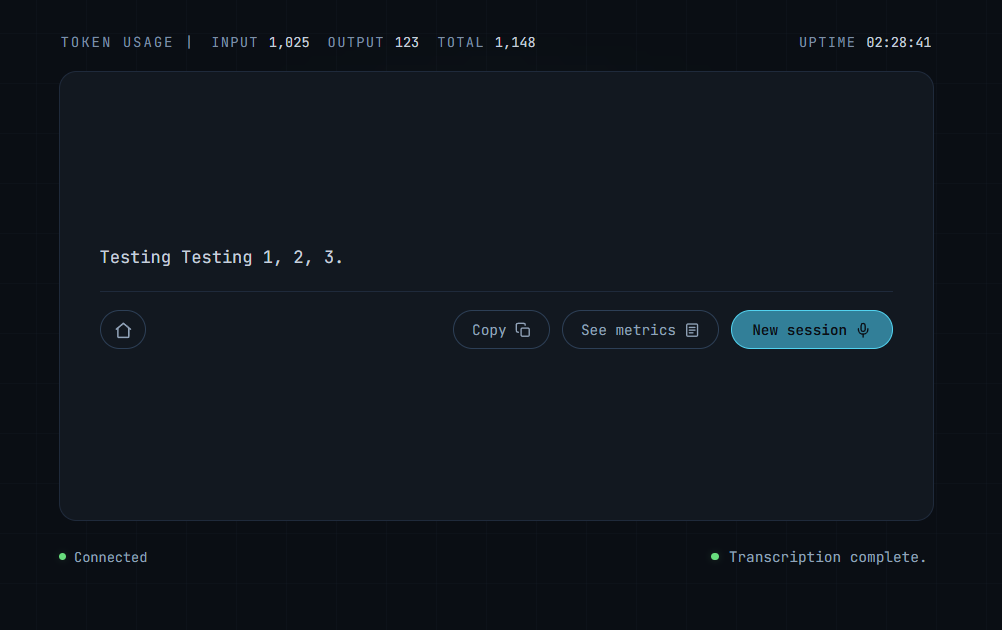
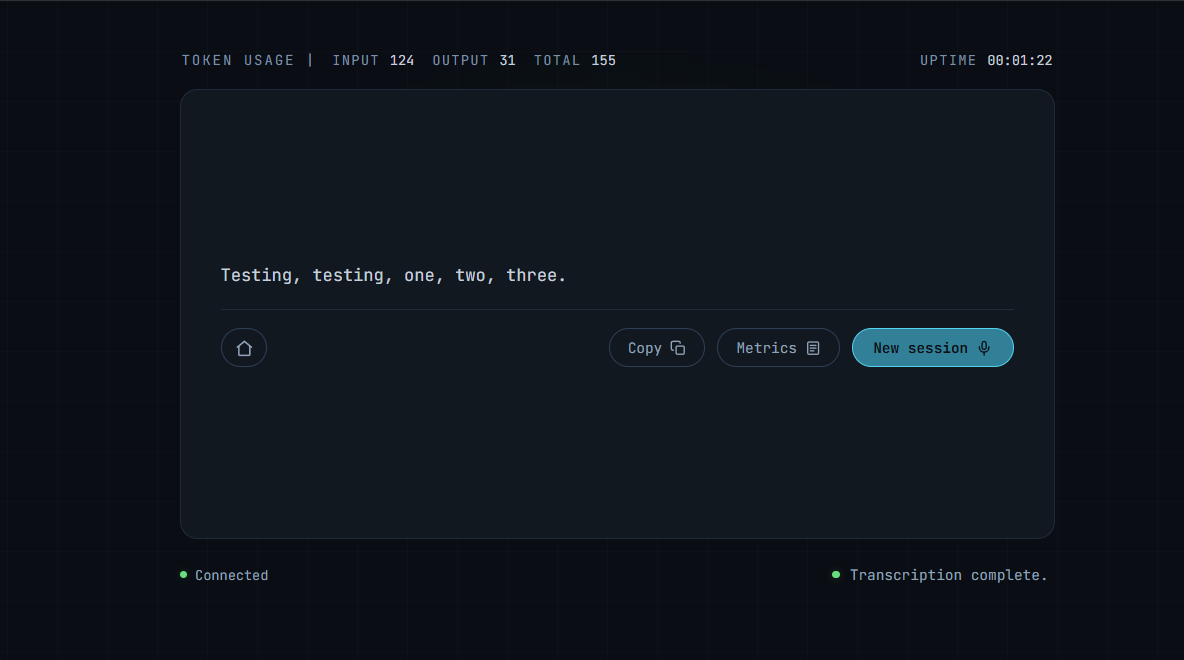
Final clean up for submission
Update images to latest, remove dead code and dead imports, validate filename provided, update docs, remove local testing ports

diff --git a/src/main/java/com/comp3011/assignment1/controller/TranscriptionController.java b/src/main/java/com/comp3011/assignment1/controller/TranscriptionController.java
@@ -38,7 +38,7 @@ public class TranscriptionController {
      * token usage. consumes= makes the media type part of the mapping, so a non-multipart
      * body is rejected as 415 before this method runs.
      *
-     * 200 transcribed, 400 no audio, 413 too large, 415 wrong media type,
+     * 200 transcribed, 400 no audio or no filename, 413 too large, 415 wrong media type,
      * 502 provider error, 504 provider timeout, 500 unexpected server error.
      */
     @PostMapping(value = "/transcribe", consumes = MediaType.MULTIPART_FORM_DATA_VALUE)
@@ -51,6 +51,13 @@ public class TranscriptionController {
                     "No audio file was supplied.", req.getRequestURI());
         }
 
+        // Validate filename provider, required to infer format
+        String filename = audio.getOriginalFilename();
+        if (filename == null || filename.isBlank()) {
+            return ErrorResponse.entity(HttpStatus.BAD_REQUEST,
+                    "The audio upload was malformed or incomplete.", req.getRequestURI());
+        }
+
         // File too large
         if (audio.getSize() > TranscriptionService.MAX_FILE_SIZE) {
             return ErrorResponse.entity(HttpStatus.CONTENT_TOO_LARGE,
@@ -59,8 +66,7 @@ public class TranscriptionController {
 
         // getBytes() unwraps the servlet type here so the service layer only sees bytes.
         // ApiExceptionHandler renders the 502, 504 and 500 cases in the documented schema.
-        TranscriptionResult res =
-                transcriptionService.transcribe(audio.getBytes(), audio.getOriginalFilename());
+        TranscriptionResult res = transcriptionService.transcribe(audio.getBytes(), filename);
         return ResponseEntity.ok(res);
     }
 }

diff --git a/src/test/java/com/comp3011/assignment1/concurrency/TranscriptionLoadTest.java b/src/test/java/com/comp3011/assignment1/concurrency/TranscriptionLoadTest.java
@@ -85,10 +85,8 @@ class TranscriptionLoadTest {
                     .mapToObj(i -> pool.submit(() -> {
                         ready.countDown();
                         startGate.await();
-                        long started = System.nanoTime();
                         ResponseEntity<String> res = postAudio(client, audio);
-                        return new Attempt(res.getStatusCode().value(),
-                                (System.nanoTime() - started) / 1_000_000, res.getBody());
+                        return new Attempt(res.getStatusCode().value(), res.getBody());
                     }))
                     .toList();
 
@@ -122,7 +120,7 @@ class TranscriptionLoadTest {
     }
 
     /** Attempt meta data */
-    private record Attempt(int status, long millis, String body) {
+    private record Attempt(int status, String body) {
     }
 
     /** Mock REST client using SimpleClientHttpRequestFactory which opens a connection per exchange */
@@ -161,11 +159,5 @@ class TranscriptionLoadTest {
         byte[] bytes = new byte[AUDIO_BYTES];
         new Random(20250908L).nextBytes(bytes); // fixed seed, so every run sends identical bytes
         return bytes;
-    }
-
-    /** Nearest-rank percentile over an ascending array. */
-    private static long percentile(long[] sorted, double fraction) {
-        int rank = (int) Math.ceil(fraction * sorted.length) - 1;
-        return sorted[Math.clamp(rank, 0, sorted.length - 1)];
     }
 }

diff --git a/src/test/java/com/comp3011/assignment1/controller/TranscriptionControllerTest.java b/src/test/java/com/comp3011/assignment1/controller/TranscriptionControllerTest.java
@@ -99,6 +99,18 @@ class TranscriptionControllerTest {
     }
 
     @Test
+    @DisplayName("POST transcribe returns the 400 error body when the audio part has no filename")
+    void audioPartWithoutFilename() throws Exception {
+        // A form field rather than a file upload: bytes, but no filename to infer the
+        // container format from, so it never reaches the provider.
+        MockMultipartFile noFilename =
+                new MockMultipartFile("audio", "", "audio/webm", "fake audio".getBytes());
+
+        ErrorContract.assertErrorBody(mvc.perform(multipart(TRANSCRIBE).file(noFilename)),
+                HttpStatus.BAD_REQUEST, TRANSCRIBE);
+    }
+
+    @Test
     @DisplayName("POST transcribe returns the 413 error body when the audio exceeds 25 MB")
     void audioTooLarge() throws Exception {
 

diff --git a/src/test/java/com/comp3011/assignment1/support/ErrorContract.java b/src/test/java/com/comp3011/assignment1/support/ErrorContract.java
@@ -1,12 +1,8 @@
 package com.comp3011.assignment1.support;
 
-import static org.assertj.core.api.Assertions.assertThat;
-import static org.assertj.core.api.Assertions.assertThatCode;
 import static org.hamcrest.Matchers.hasSize;
 import static org.springframework.test.web.servlet.result.MockMvcResultMatchers.jsonPath;
 import static org.springframework.test.web.servlet.result.MockMvcResultMatchers.status;
-
-import java.time.Instant;
 
 import org.springframework.http.HttpStatus;
 import org.springframework.test.web.servlet.ResultActions;

diff --git a/src/test/java/com/comp3011/assignment1/controller/AdminControllerTest.java b/src/test/java/com/comp3011/assignment1/controller/AdminControllerTest.java
@@ -6,8 +6,6 @@ import static org.springframework.test.web.servlet.request.MockMvcRequestBuilder
 import static org.springframework.test.web.servlet.result.MockMvcResultMatchers.jsonPath;
 import static org.springframework.test.web.servlet.result.MockMvcResultMatchers.status;
 
-import java.time.Instant;
-
 import org.junit.jupiter.api.DisplayName;
 import org.junit.jupiter.api.Test;
 import org.springframework.beans.factory.annotation.Autowired;

diff --git a/TESTING.md b/TESTING.md
@@ -2,7 +2,7 @@
 
 ## Overview
 
-21 tests across 8 classes, using JUnit 5, Spring Boot Test, AssertJ and Mockito. 
+22 tests across 8 classes, using JUnit 5, Spring Boot Test, AssertJ and Mockito. 
 
 They aim to verify 4 things:
 - the API contract holds on every documented status 
@@ -21,7 +21,7 @@ The suite needs no `OPENAI_API_KEY` and makes no network calls.
 ./mvnw test                                    # mvnw.cmd test on Windows
 ```
 
-Successful run will end with `Tests run: 21, Failures: 0, Errors: 0` and `BUILD SUCCESS`.
+Successful run will end with `Tests run: 22, Failures: 0, Errors: 0` and `BUILD SUCCESS`.
 
 **Two `ERROR` stack traces appear mid-run and are expected.** `TranscriptionControllerTest`
 injects a `ResourceAccessException` and a `RestClientResponseException` to simulate the 504 and

diff --git a/README.md b/README.md
@@ -50,12 +50,13 @@ either way:
 
 ```bash
 ./mvnw package
-docker build -t assignment1-api .
-docker run --rm -p 8080:8080 -e OPENAI_API_KEY <your_key>
+docker build -f assignment1.Dockerfile -t assignment1-api .
+docker run --rm -p 8080:8080 -e OPENAI_API_KEY assignment1-api
 ```
 
-`-e OPENAI_API_KEY` with no value forwards the key from the host environment, so the
-credential stays out of the image.
+`-f` is required because the build file is named `assignment1.Dockerfile` rather than
+`Dockerfile`. `-e OPENAI_API_KEY` with no value forwards the key from the host environment,
+so the credential stays out of the image.
 
 ### Running the tests
 
